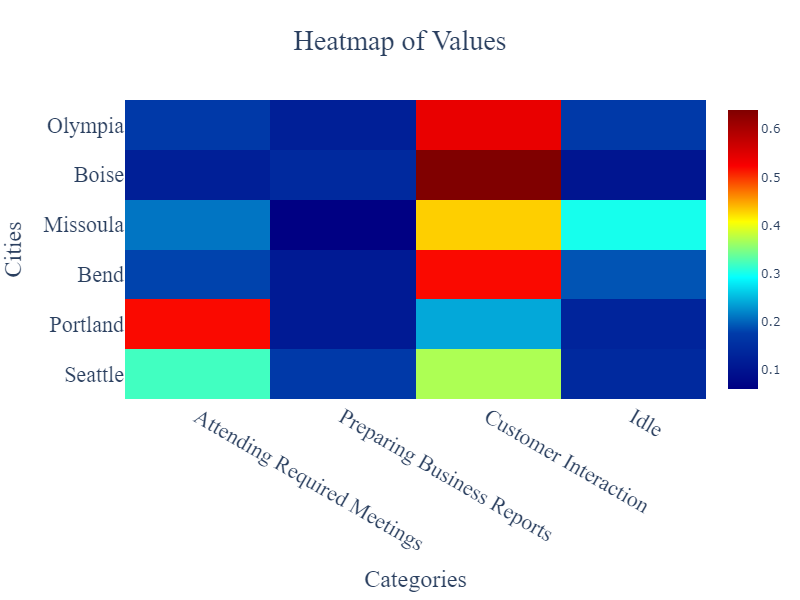
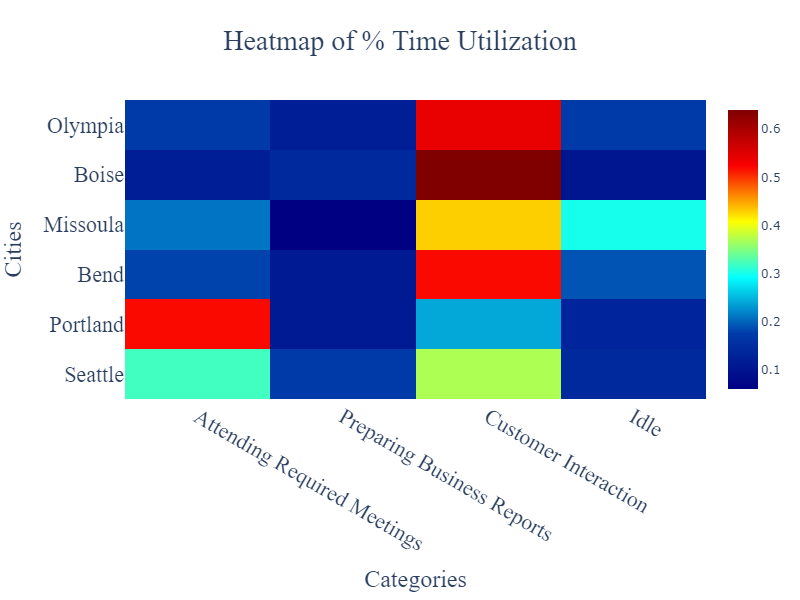
last minute correction to improve figure

Changed region(s): [[0.2812, 0.03, 0.7188, 0.09]]

diff --git a/src/DASC500/homework/homework2.py b/src/DASC500/homework/homework2.py
@@ -16,7 +16,7 @@ def plotting_csv():
     data_obj.plot_clustered_bar_chart_horizontal(x_column=None, y_column='City', output_dir=output_folder, x_axis_name='Percentage of Time (%)')
     data_obj.plot_individual_bar_charts(x_column='City', y_column=None, output_dir=output_folder, y_axis_name='Percentage of Time(%)')
     data_obj.plot_line_chart(x_column='City', y_column='Idle', output_dir=output_folder)
-    data_obj.plot_heatmap(output_dir=output_folder, title_name='Heatmap of Values', x_axis_name='Categories', y_axis_name='Cities')
+    data_obj.plot_heatmap(output_dir=output_folder, title_name='Heatmap of % Time Utilization', x_axis_name='Categories', y_axis_name='Cities')
     data_obj.plot_radar_chart(output_dir=output_folder, title_name='Radar Chart of Categories by City')
 
 
